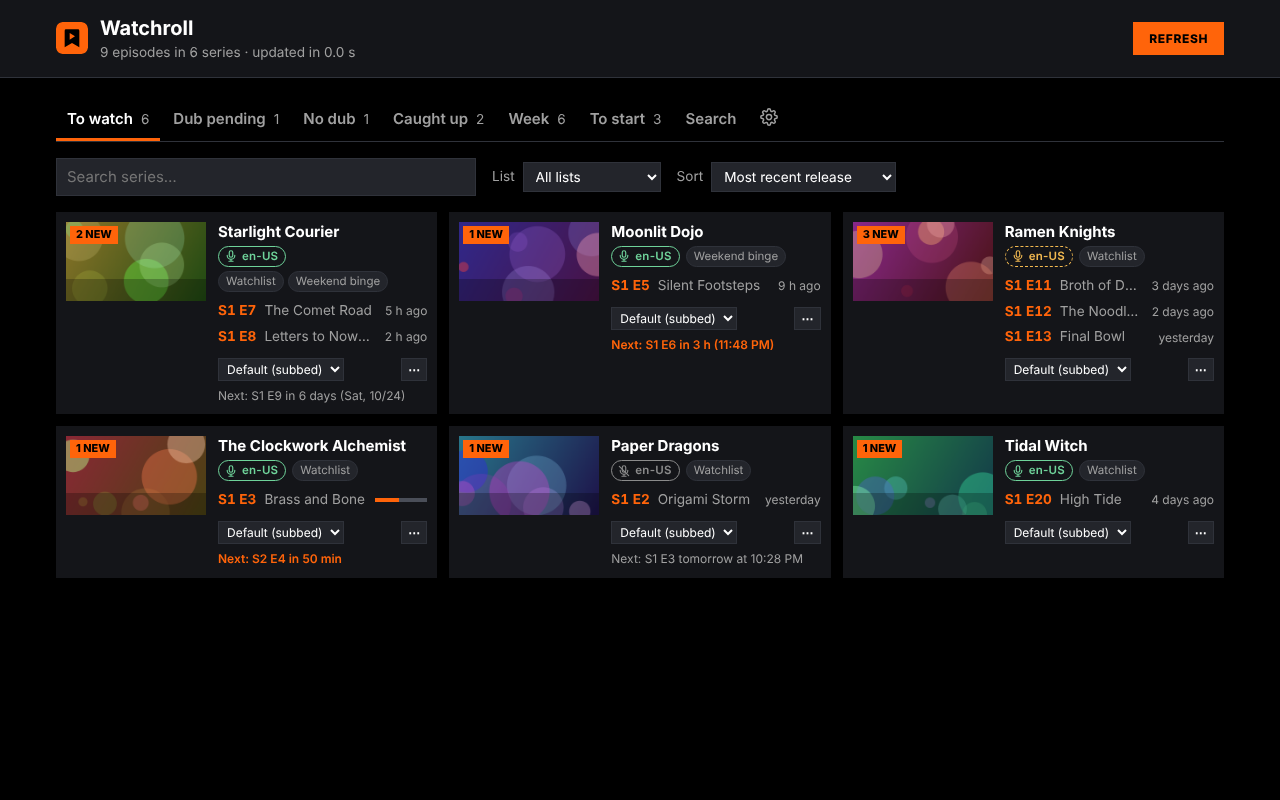
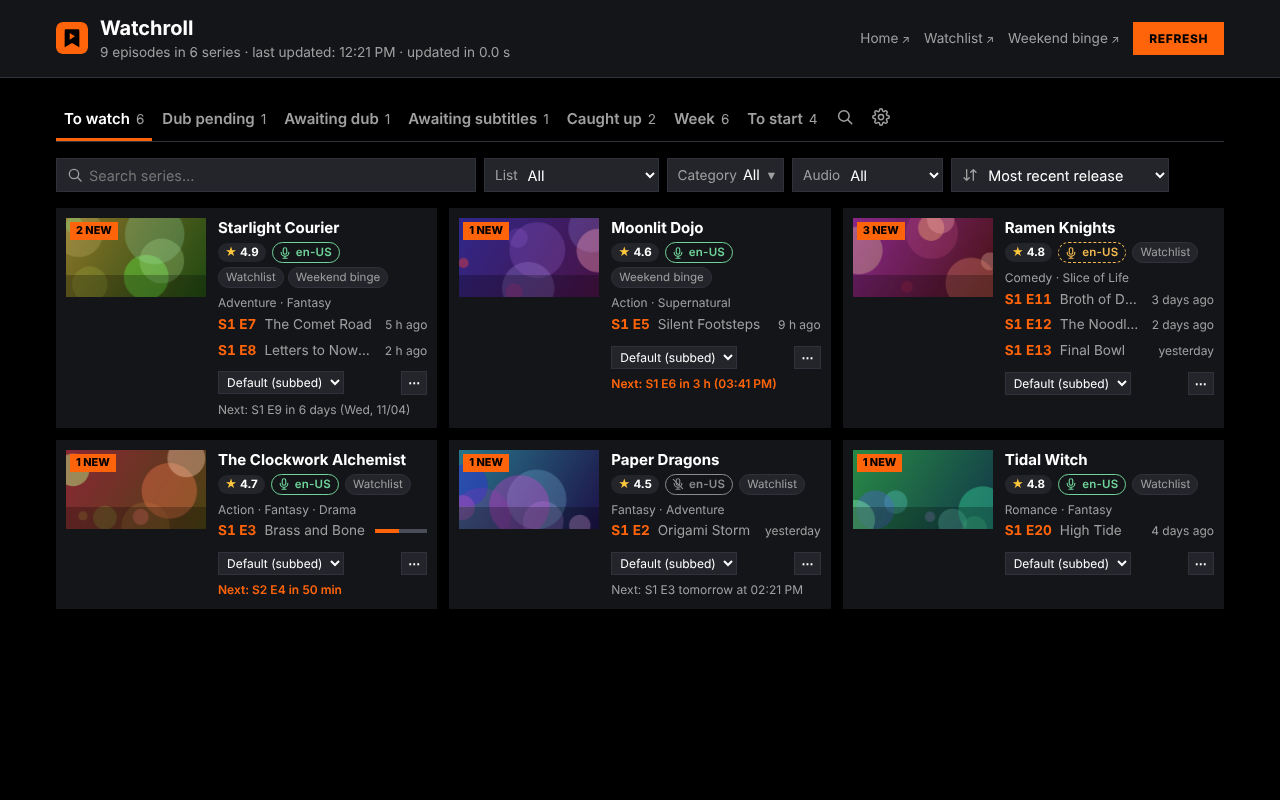
v1.1.3 (test): Awaiting subtitles tab, renamed waiting tabs, settings layout fix, new store screenshots

diff --git a/dashboard/dashboard.html b/dashboard/dashboard.html
@@ -119,33 +119,33 @@
       </section>
 
       <div class="toolbar" id="toolbar">
-        <label class="field search-field">
-          <svg class="field-icon" viewBox="0 0 24 24" width="16" height="16" aria-hidden="true"><path d="M10.5 17.5a7 7 0 1 0 0-14 7 7 0 0 0 0 14z" /><path d="M15.5 15.5 21 21" /></svg>
+        <label class="tb-field tb-search">
+          <svg class="tb-icon" viewBox="0 0 24 24" width="16" height="16" aria-hidden="true"><path d="M10.5 17.5a7 7 0 1 0 0-14 7 7 0 0 0 0 14z" /><path d="M15.5 15.5 21 21" /></svg>
           <input id="search" type="search" data-i18n-placeholder="searchPlaceholder" data-i18n-aria-label="searchAria" autocomplete="off" />
         </label>
-        <label class="field" id="listfilter-wrap" hidden>
-          <span class="field-label" data-i18n="listFilterLabel"></span>
+        <label class="tb-field" id="listfilter-wrap" hidden>
+          <span class="tb-label" data-i18n="listFilterLabel"></span>
           <select id="list-filter"></select>
         </label>
-        <div class="field" id="genrefilter-wrap" hidden>
-          <span class="field-label" id="genre-filter-label" data-i18n="genreFilterLabel"></span>
+        <div class="tb-field" id="genrefilter-wrap" hidden>
+          <span class="tb-label" id="genre-filter-label" data-i18n="genreFilterLabel"></span>
           <div class="multi" id="genre-filter"></div>
         </div>
-        <label class="field" id="audiofilter-wrap">
-          <span class="field-label" data-i18n="audioFilterLabel"></span>
+        <label class="tb-field" id="audiofilter-wrap">
+          <span class="tb-label" data-i18n="audioFilterLabel"></span>
           <select id="audio-filter"></select>
         </label>
-        <label class="field check-field" id="group-wrap" hidden>
+        <label class="tb-field tb-check" id="group-wrap" hidden>
           <input id="group-never" type="checkbox" />
           <span data-i18n="groupBySeason"></span>
         </label>
-        <label class="field sort-field" id="sort-wrap">
-          <svg class="field-icon" viewBox="0 0 24 24" width="16" height="16" aria-hidden="true"><path d="M7 4v16M3 16l4 4 4-4M17 20V4M13 8l4-4 4 4" /></svg>
+        <label class="tb-field tb-sort" id="sort-wrap">
+          <svg class="tb-icon" viewBox="0 0 24 24" width="16" height="16" aria-hidden="true"><path d="M7 4v16M3 16l4 4 4-4M17 20V4M13 8l4-4 4 4" /></svg>
           <span class="visually-hidden" data-i18n="sortLabel"></span>
           <select id="sort"></select>
         </label>
         <button class="clear-filters" id="clear-filters" type="button" hidden>
-          <svg class="field-icon" viewBox="0 0 24 24" width="14" height="14" aria-hidden="true"><path d="M6 6l12 12M18 6 6 18" /></svg><span data-i18n="clearFilters"></span>
+          <svg class="tb-icon" viewBox="0 0 24 24" width="14" height="14" aria-hidden="true"><path d="M6 6l12 12M18 6 6 18" /></svg><span data-i18n="clearFilters"></span>
         </button>
       </div>
       <div id="content"></div>

diff --git a/dashboard/dashboard.css b/dashboard/dashboard.css
@@ -146,7 +146,7 @@ main {
   gap: 8px;
   margin-bottom: 16px;
 }
-.field {
+.tb-field {
   display: flex;
   align-items: center;
   gap: 6px;
@@ -159,23 +159,23 @@ main {
   font-size: 0.85rem;
   flex: 0 0 auto; /* só a busca encolhe */
 }
-.field:focus-within {
+.tb-field:focus-within {
   border-color: var(--muted);
 }
-.field[hidden] {
+.tb-field[hidden] {
   display: none;
 }
-.field.active {
+.tb-field.active {
   border-color: var(--orange);
 }
-.field.active .field-label {
+.tb-field.active .tb-label {
   color: var(--orange);
 }
-.field-label {
+.tb-label {
   white-space: nowrap;
   flex-shrink: 0;
 }
-.field-icon {
+.tb-icon {
   flex-shrink: 0;
   fill: none;
   stroke: currentColor;
@@ -183,8 +183,8 @@ main {
   stroke-linecap: round;
   stroke-linejoin: round;
 }
-.field select,
-.field input[type="search"] {
+.tb-field select,
+.tb-field input[type="search"] {
   min-width: 0;
   height: 100%;
   border: 0;
@@ -196,20 +196,20 @@ main {
   text-overflow: ellipsis;
   cursor: pointer;
 }
-.field select option {
+.tb-field select option {
   background: var(--surface-2);
   color: var(--text);
 }
-.field select:focus-visible,
-.field input[type="search"]:focus-visible {
+.tb-field select:focus-visible,
+.tb-field input[type="search"]:focus-visible {
   outline: none;
 }
-.search-field {
+.tb-search {
   flex: 1 1 220px;
   min-width: 130px;
   max-width: 420px;
 }
-.search-field input[type="search"] {
+.tb-search input[type="search"] {
   flex: 1;
   cursor: text;
 }
@@ -219,16 +219,16 @@ main {
 #audio-filter {
   max-width: 130px;
 }
-.sort-field select {
+.tb-sort select {
   max-width: 190px;
 }
-.check-field {
+.tb-check {
   padding-inline-end: 10px;
   cursor: pointer;
   white-space: nowrap;
   color: var(--text);
 }
-.check-field input {
+.tb-check input {
   width: 16px;
   height: 16px;
   margin: 0;
@@ -287,23 +287,23 @@ main {
   .toolbar {
     flex-wrap: wrap;
   }
-  .search-field {
+  .tb-search {
     max-width: none;
   }
 }
 /* Celular: busca e ordenação na linha toda; os filtros em duas colunas. */
 @media (max-width: 600px) {
-  .field {
+  .tb-field {
     flex: 1 1 calc(50% - 4px);
   }
-  .search-field,
-  .sort-field,
+  .tb-search,
+  .tb-sort,
   .clear-filters {
     flex: 1 1 100%;
     max-width: none;
     min-width: 0;
   }
-  .field select,
+  .tb-field select,
   #genre-filter,
   #genre-filter .multi-button {
     flex: 1;
@@ -809,8 +809,8 @@ body.busy select.actions {
   flex: 0 0 auto;
   display: inline-flex;
   align-items: baseline;
-  gap: 8px;
-  padding: 10px 11px 9px;
+  gap: 6px;
+  padding: 10px 8px 9px;
   border: 0;
   border-bottom: 3px solid transparent;
   background: none;
@@ -1059,6 +1059,10 @@ body.busy select.actions {
 }
 
 /* ---------- listas (Fila + Crunchylists) ---------- */
+/* [hidden] vale mesmo para campos com display próprio (ex.: opção só do Android). */
+.settings [hidden] {
+  display: none !important;
+}
 .settings .field {
   display: flex;
   flex-direction: column;

diff --git a/README.md b/README.md
@@ -20,7 +20,7 @@ only reads data from your own account.
   extra check right after each known release time.
 - **Watchlist + Crunchylists**, with a label showing which list each series came from and a
   list filter on every tab.
-- **Tabs** for every state (to watch, dub or subtitles pending, no dub, no subtitles, caught up, not
+- **Tabs** for every state (to watch, dub or subtitles pending, awaiting dub, awaiting subtitles, caught up, not
   started, errors, hidden), each with its own sorting, plus a **Week** calendar of upcoming
   releases.
 - **Advanced Search** over the whole Crunchyroll catalog or your lists, with dub, age rating,
@@ -56,8 +56,8 @@ is the magnifier icon and Settings the gear icon. Empty tabs are hidden, except 
 | To watch | Episodes released after the last one you watched, as cards (or rows in compact mode, with a ▶ button for the next episode). Half-watched episodes show a progress bar. |
 | Dub pending | Dubbed-mode series with episodes that are out but not yet dubbed in your language (the season already has that dub). |
 | Subs pending | Subbed-mode series with episodes released without subtitles in your language yet, while the current season already has them for earlier episodes. |
-| No dub | Dubbed-mode series whose current season has no episode at all in your language. **Watch subbed** switches the series to subbed mode. |
-| No subtitles | Subbed-mode series whose current season has no released episode with subtitles in your language (they may never come). **Watch without subtitles** switches the series to *Any audio*. |
+| Awaiting dub | Dubbed-mode series whose current season has no episode at all in your language. **Watch subbed** switches the series to subbed mode. |
+| Awaiting subtitles | Subbed-mode series whose current season has no released episode with subtitles in your language (they may never come). **Watch without subtitles** switches the series to *Any audio*. |
 | Caught up | Series with nothing pending. |
 | Week | The next episode of each series releasing in the next 7 days, grouped by day (Today, Tomorrow, Wednesday, October 21…), with the time. Crunchyroll only lists an episode once it is out, so for simulcasts the date is estimated from the weekly pace (7 days after the last episode, same time) and marked with `~`; a date Crunchyroll does publish takes precedence. No estimate when episodes aren't weekly or the expected one is already late (break or season end). For series you haven't started, only seasons from the current or previous anime season are checked (one extra request each). |
 | To start | Series you never watched, with their number of seasons and episodes ("3 seasons · 36 episodes", counting regular seasons only: dub copies and specials are left out). By default grouped by release season (Fall 2026, Summer 2026…), newest first; **Group** turns the groups off. |
@@ -86,7 +86,7 @@ filters at once:
 | Tab | Sort options |
 |---|---|
 | To watch | Most recent release, Most recently watched, Most episodes, Title |
-| Dub pending, Subs pending, No dub, No subtitles | Most episodes waiting, Most recently watched, Title |
+| Dub pending, Subs pending, Awaiting dub, Awaiting subtitles | Most episodes waiting, Most recently watched, Title |
 | Caught up | Most recently watched, Next release, Title |
 | To start | Release season, Title, Most seasons, Most episodes in total (inside each group when grouping is on) |
 | Hidden | Title, Most recently watched |
@@ -354,12 +354,13 @@ and description, plus a fixed list of tags (only `streaming` applies here). So t
 simulcast, notifications) are written into the localized names and summaries in `_locales/` and
 into the English and Portuguese descriptions in `amo-metadata.json`.
 
-For the store listing, `store/screenshots/` has 1280×800 screenshots (English interface,
-fictional titles and generated artwork) and `PRIVACY.md` is the privacy policy to paste in the
+For the store listing, `store/screenshots/` has six 1280×800 screenshots (English interface,
+fictional titles and generated artwork): To watch, Week, the filter bar with categories, To
+start, Advanced Search and Settings and `PRIVACY.md` is the privacy policy to paste in the
 add-on's Developer Hub page. The listing icon is `icons/icon-128.png`.
 
 Bump `version` in both `manifest.json` and `package.json` for every build you sign (current:
-1.1.1); AMO does not accept the same version twice, not even in different channels, which is why
+1.1.3); AMO does not accept the same version twice, not even in different channels, which is why
 test builds and releases use different numbers. The add-on ID
 (`crunchyroll-novos-eps@awmaximus.github.io`) comes from before the rename and must stay as it
 is: changing it makes Firefox and AMO treat Watchroll as a different extension.
